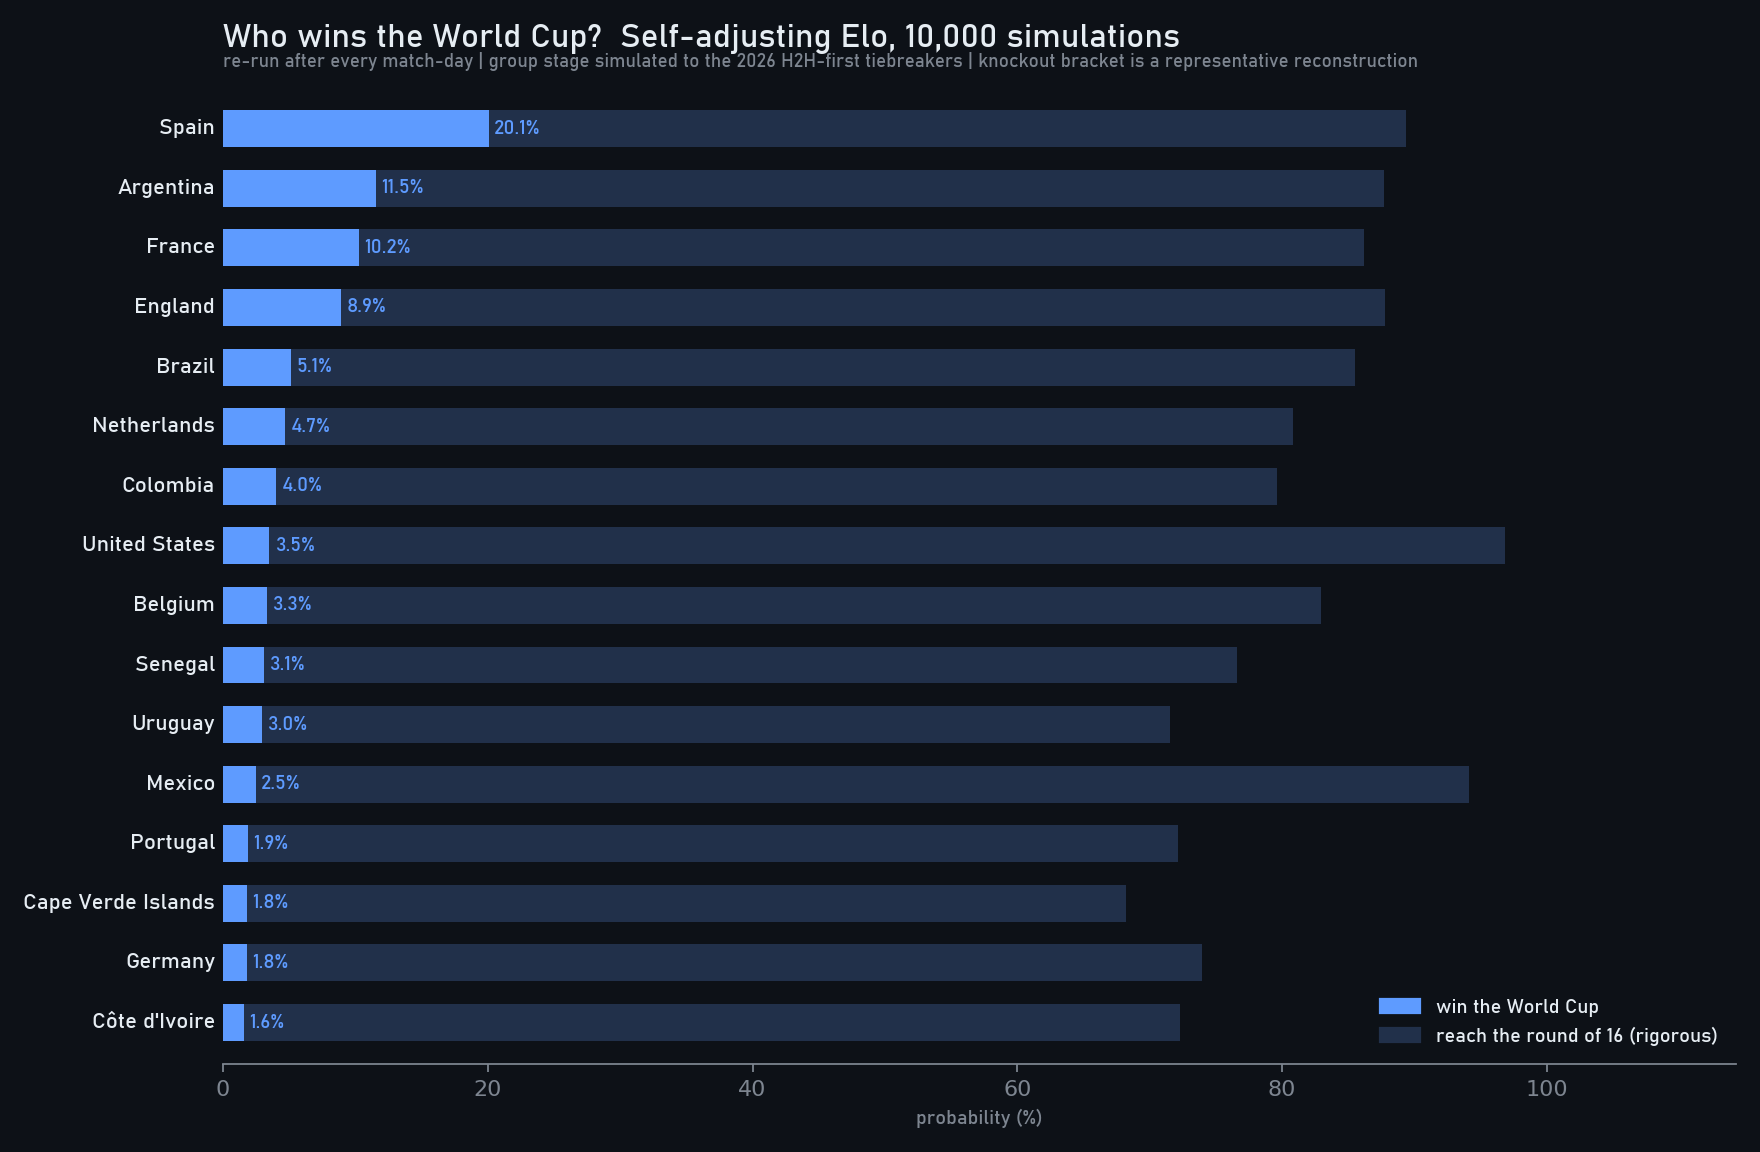
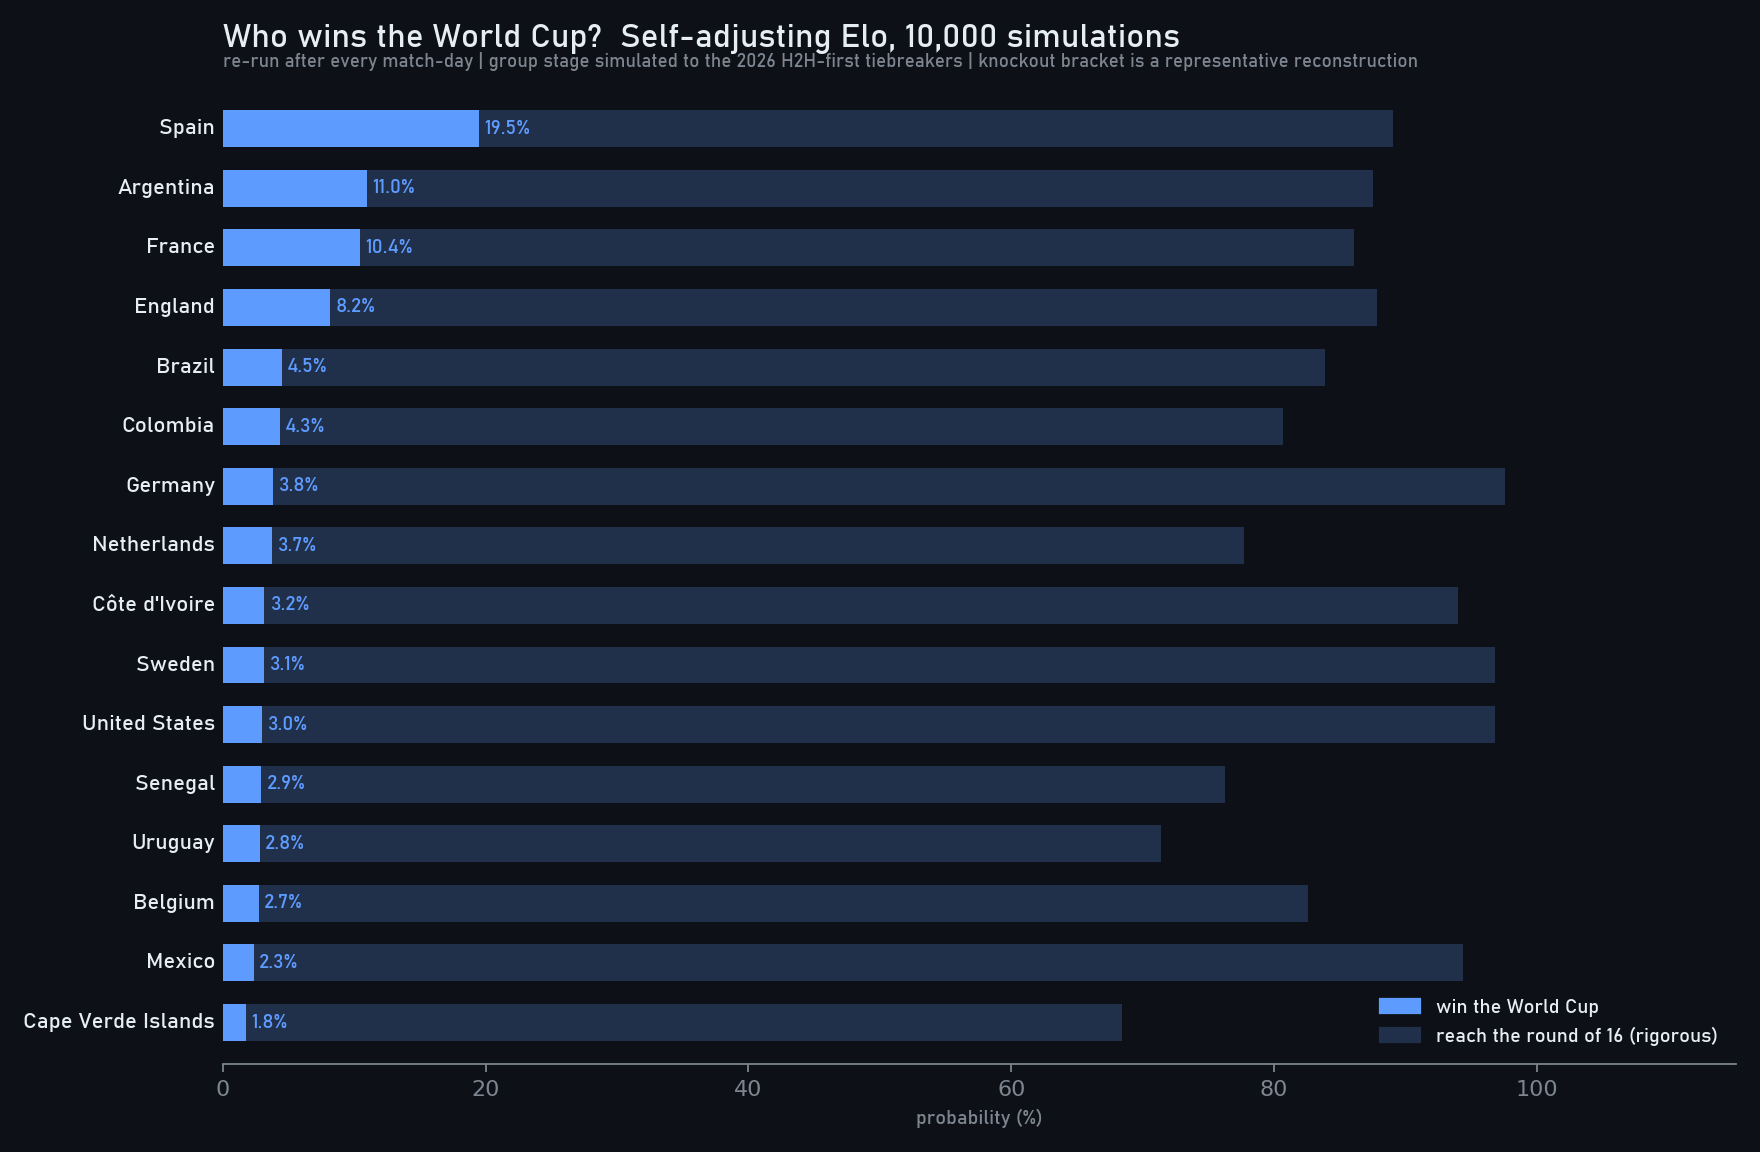
refresh predictions to 12 played matches (ratings now self-adjusts off fixtures, not legacy csv); correct in-game winprob to 0.83 OOS log loss

diff --git a/src/ratings.py b/src/ratings.py
@@ -207,22 +207,24 @@ def main():
     with open(os.path.join(OUT, "prematch_model.json"), "w") as f:
         json.dump(model, f, indent=2)
 
-    # apply already-played WC2026 results so the saved state is self-adjusted
+    # apply already-played WC2026 results so the saved state is self-adjusted.
+    # Source = the FIFA calendar via fixtures.py (the same schedule montecarlo
+    # and backtest use), not the legacy wc2026/matches.csv that only the old
+    # wc2026.py wrote and which lagged the live feed. Lazy import: fixtures
+    # imports this module at top, so importing it here avoids a cycle.
     applied, as_of = 0, "pre-tournament"
-    live = os.path.join(OUT, "matches.csv")
-    if os.path.exists(live):
-        wc = pd.read_csv(live)
-        wc = wc[wc.score.astype(str).str.contains("-", na=False)]
-        for r in wc.sort_values("date").itertuples():
-            try:
-                hs, as_ = (int(v) for v in str(r.score).split("-")[:2])
-            except ValueError:
-                continue
-            h, a = norm(r.home), norm(r.away)
+    try:
+        import fixtures
+        fx = fixtures.played(fixtures.load_fixtures(norm=norm))
+        for r in fx.sort_values("kickoff", kind="mergesort").itertuples():
+            h, a = r.home, r.away
+            hs, as_ = int(r.home_score), int(r.away_score)
             rh, ra = ratings.get(h, PROVISIONAL), ratings.get(a, PROVISIONAL)
             ha = HOME_ADV if h in HOSTS_2026 else 0.0
             ratings[h], ratings[a] = elo_update(rh, ra, hs, as_, K_WORLD_CUP, ha)
-            applied, as_of = applied + 1, r.date
+            applied, as_of = applied + 1, str(r.kickoff)[:10]
+    except Exception as e:
+        print("  (no live results applied -- fixtures unavailable: {})".format(e))
     print("applied {} played WC2026 results (as of {})".format(applied, as_of))
 
     with open(os.path.join(OUT, "elo_ratings.json"), "w") as f:

diff --git a/README.md b/README.md
@@ -79,9 +79,10 @@ python src/wc2026.py
 `src/winprob.py` trains an in-game win-probability model on the 551
 historical matches: multinomial logistic regression on goal difference,
 cumulative xG difference, red-card man advantage and time remaining,
-predicting P(home win / draw / away win). It is well calibrated (log loss
-0.79; predicted vs observed home-win rate within ~2 points across every
-decile) and saved as plain JSON so scoring needs only numpy.
+predicting P(home win / draw / away win). Out-of-sample on a match-grouped
+holdout it scores log loss 0.83, calibrated at the confident extremes but
+under-predicting home wins through the mid-range deciles; the coefficients are
+saved as plain JSON so scoring needs only numpy.
 
 `src/live_eval.py` drives it from FotMob's per-shot xG and event feed to
 draw a chess.com-style evaluation bar for each match: one line, up means